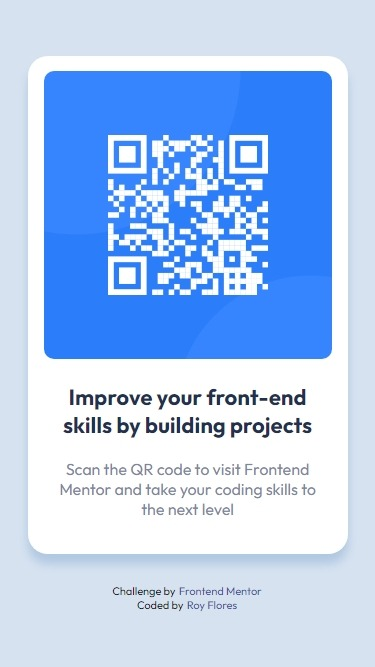
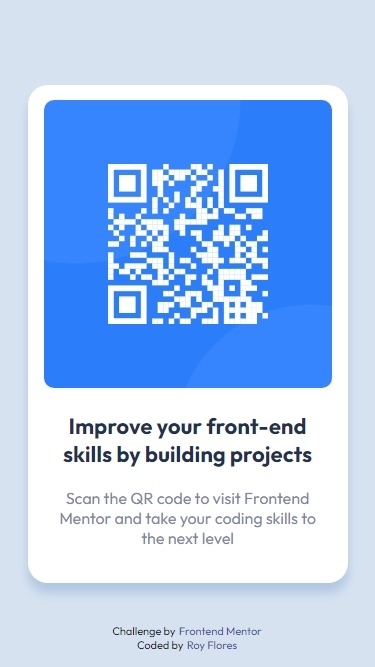
Add files via upload

Changed region(s): [[0.0587, 0.1799, 0.9387, 0.9895], [0.0587, 0.06, 0.9387, 0.1799]]

diff --git a/index.html b/index.html
@@ -20,19 +20,19 @@
 
 </head>
 <body>
-  <header role="header"></header>
-
-  <main role="main">
     <div class="qr-card">
-      <img class="qr-code" src="./images/image-qr-code.png" alt="An image of a sample QR code">
-      <div class="card-text">
-        <h2>Improve your front-end skills by building projects</h2>
-        <p>Scan the QR code to visit Frontend Mentor and take your coding skills to the next level</p>
-      </div>
+      <header role="banner">
+        <img class="qr-code" src="./images/image-qr-code.png" alt="An image of a sample QR code">
+      </header>  
+      <main role="content">
+        <div class="card-text">
+          <h1>Improve your front-end skills by building projects</h1>
+          <p>Scan the QR code to visit Frontend Mentor and take your coding skills to the next level</p>
+        </div>
+      </main>
     </div>
-  </main>
 
-  <footer role="footer">
+  <footer role="info">
     <div class="attribution">
       Challenge by
       <a href="https://www.frontendmentor.io?ref=challenge" target="_blank">

diff --git a/style.css b/style.css
@@ -24,7 +24,7 @@ body {
     border-radius: 10px;
 }
 
-h2 {
+h1 {
     font-size: 22px;
     color: hsl(218, 44%, 22%);
     margin: 20px 0 20px;
@@ -35,11 +35,15 @@ p {
     margin: 20px 15px 20px;
 }
 
+footer {
+    position: fixed;
+    bottom: 15px;
+}
+
 .attribution {
     font-size: 11px;
     text-align: center;
     font-family: "Outfit";
-    margin-top: 30px;
 }
 
 /* Text styles on links */
